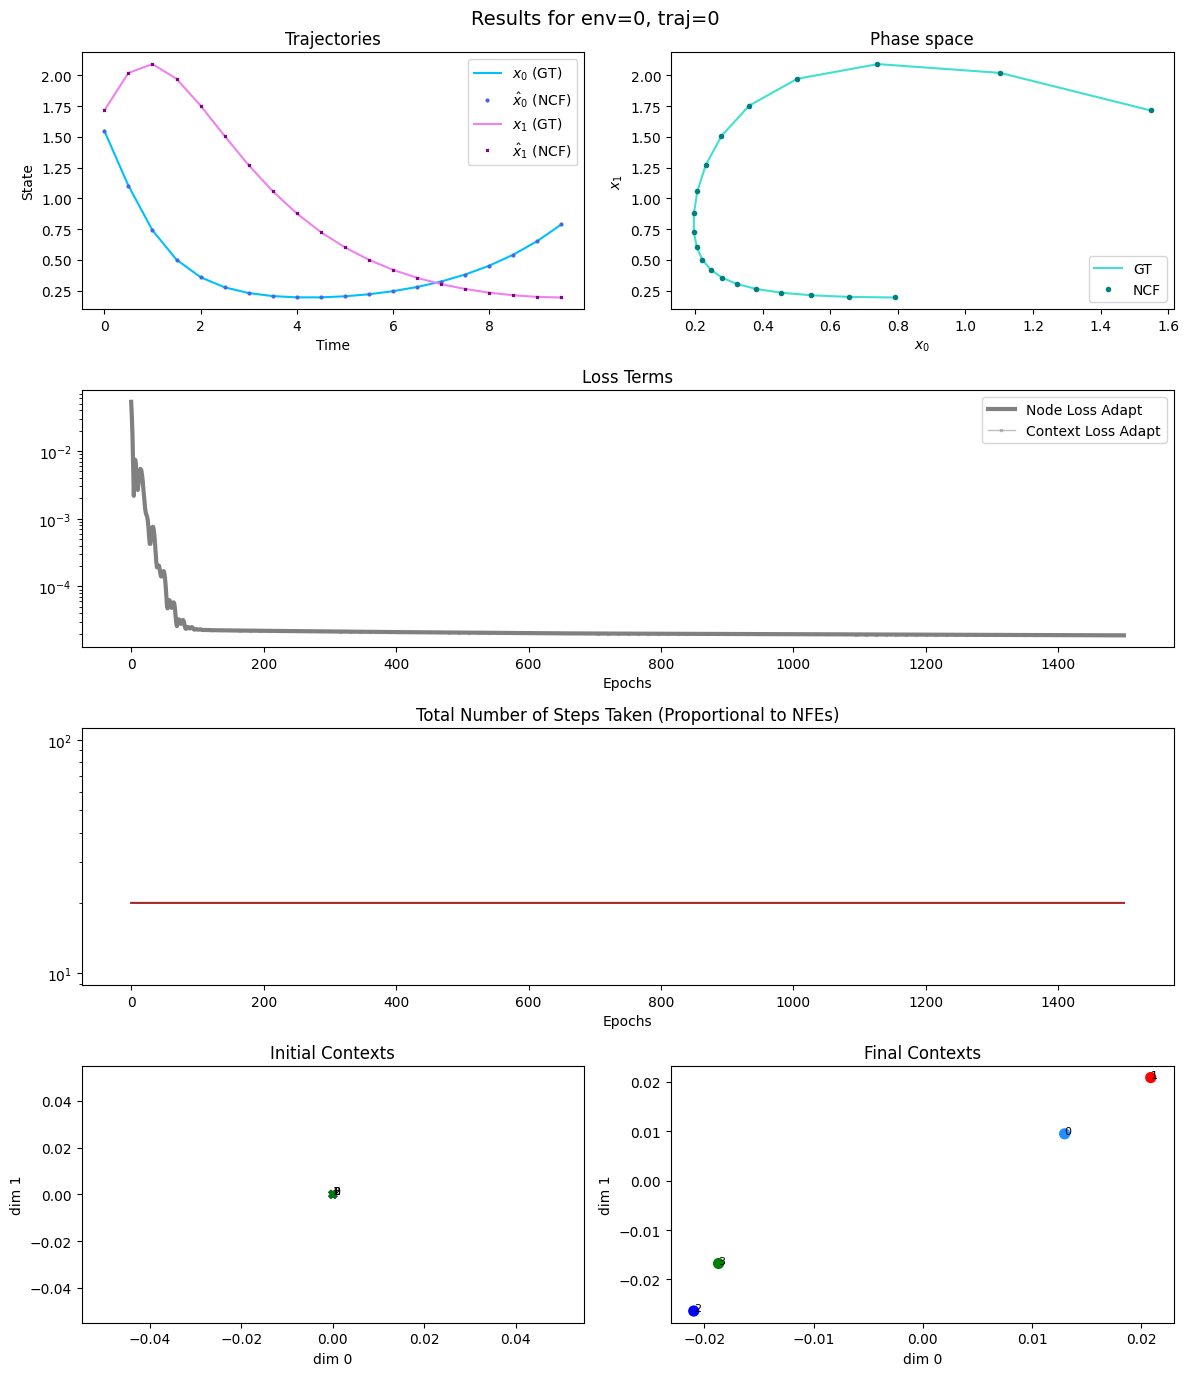
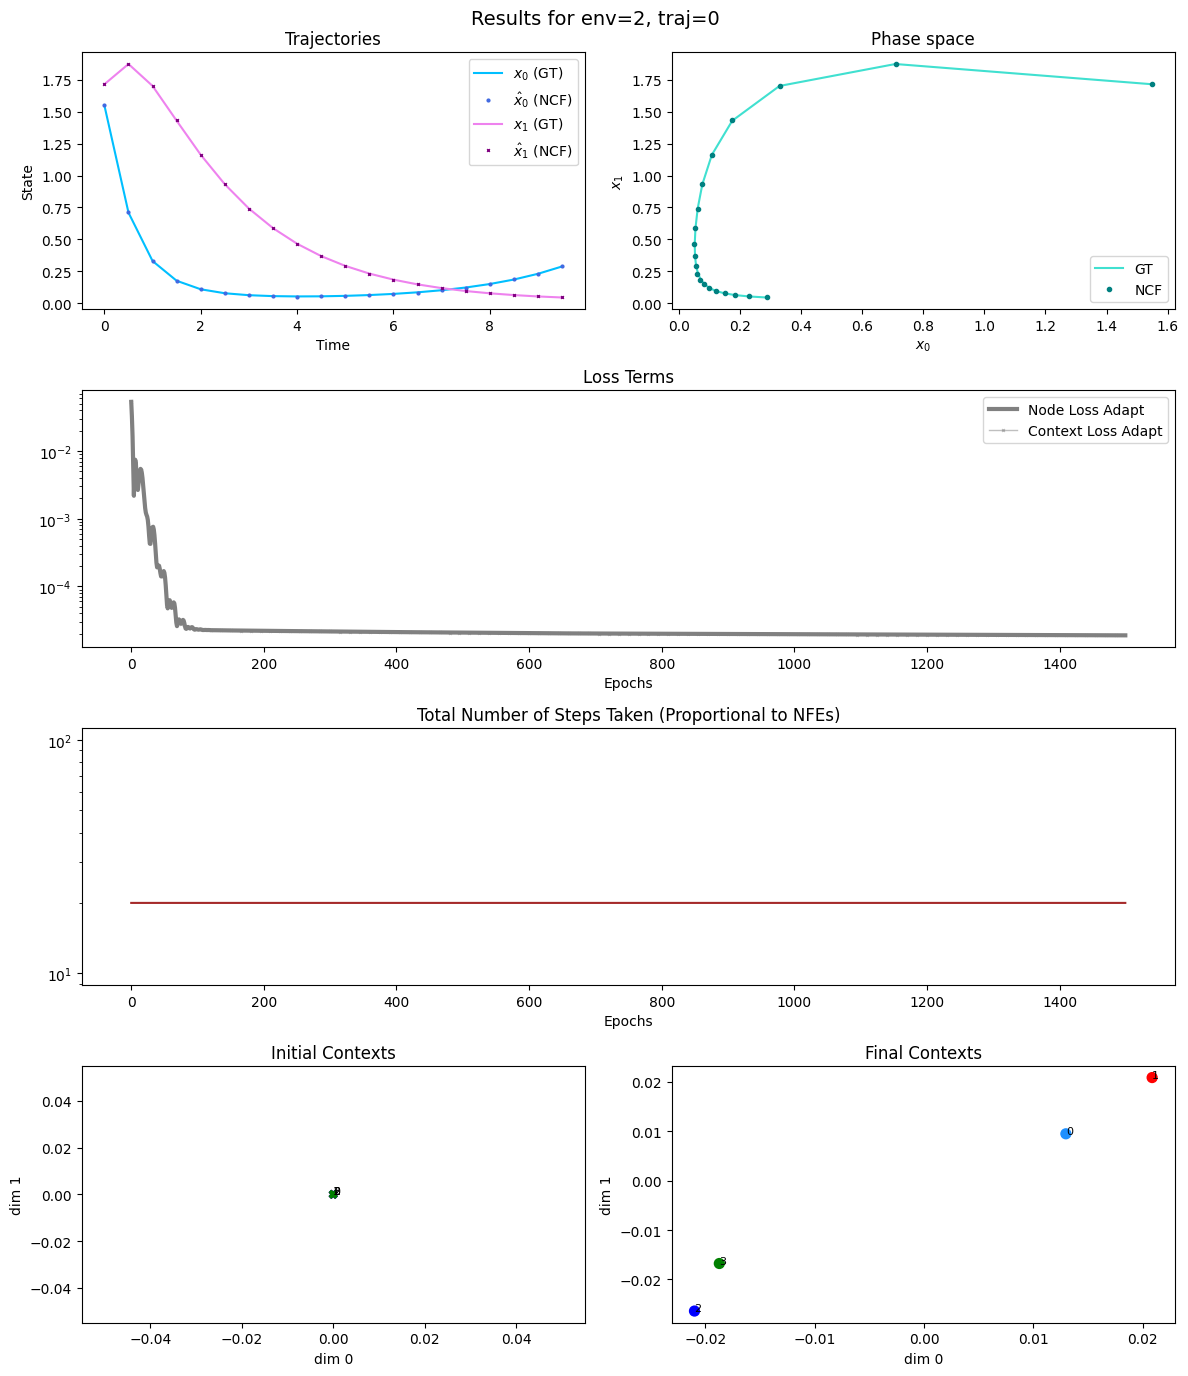
Scaled standard dev for better UQ visualisations

diff --git a/nodax/visualtester.py b/nodax/visualtester.py
@@ -344,7 +344,7 @@ class VisualTester:
 
 
 
-    def visualizeUQ(self, data_loader, e=None, traj=None, dims=(0,1), context_dims=(0,1), int_cutoff=1.0, save_path=False, key=None):
+    def visualizeUQ(self, data_loader, e=None, traj=None, dims=(0,1), std_scale=1e2, int_cutoff=1.0, save_path=False, verbose=True, key=None):
         """ Visualise the results of the neural ODE model with epistemic uncertainty quantification """
 
         # assert data_loader.nb_envs == self.trainer.dataloader.nb_envs, "The number of environments in the test dataloader must be the same as the number of environments in the trainer."
@@ -358,15 +358,16 @@ class VisualTester:
         X = data_loader.dataset[e, traj:traj+1, :test_length, :]
         t_test = t_eval[:test_length]
 
-        if data_loader.adaptation == False:
-            print("==  Begining in-domain visualisation with UQ... ==")
-        else:
-            print("==  Begining out-of-distribution visualisation with UQ ... ==")
-        print("    Environment id:", e)
-        print("    Trajectory id:", traj)
-        print("    Visualized dimensions:", dims)
-        print("    Final length of the training trajectories:", self.trainer.dataloader.int_cutoff)
-        print("    Length of the testing trajectories:", test_length)
+        if verbose == True:
+            if data_loader.adaptation == False:
+                print("==  Begining in-domain visualisation with UQ... ==")
+            else:
+                print("==  Begining out-of-distribution visualisation with UQ ... ==")
+            print("    Environment id:", e)
+            print("    Trajectory id:", traj)
+            print("    Visualized dimensions:", dims)
+            print("    Final length of the training trajectories:", self.trainer.dataloader.int_cutoff)
+            print("    Length of the testing trajectories:", test_length)
 
         contexts = self.trainer.learner.contexts.params
         if data_loader.adaptation == True:
@@ -383,41 +384,60 @@ class VisualTester:
         X_hat = X_hat.squeeze()
         X = X.squeeze()
 
-        fig, ax = plt.subplot_mosaic('AB;CD', figsize=(6*2, 3.5*2))
+        # fig, ax = plt.subplot_mosaic('AB;CD', figsize=(6*2, 3.5*2))
+        fig, ax = plt.subplot_mosaic('CD', figsize=(6*2, 3.5*1))
 
         mks = 2
         dim0, dim1 = dims
 
-        ax['A'].plot(t_test, X[:, 0], "o", c="royalblue", label=f"$x_{{{dim0}}}$ (GT)")
-        ax['A'].plot(t_test, X_hat[:, 0], c="deepskyblue", label=f"$\\hat{{x}}_{{{dim0}}}$ (NCF)", markersize=mks)
+        # ax['A'].plot(t_test, X[:, dim0], "o", c="royalblue", label=f"$x_{{{dim0}}}$ (GT)")
+        # ax['A'].plot(t_test, X_hat[e, :, dim0], c="deepskyblue", label=f"$\\hat{{x}}_{{{dim0}}}$ (NCF)", markersize=mks)
 
-        ax['A'].plot(t_test, X[:, 1], "x", c="purple", label=f"$x_{{{dim1}}}$ (GT)")
-        ax['A'].plot(t_test, X_hat[:, 1], c="violet", label=f"$\\hat{{x}}_{{{dim1}}}$ (NCF)", markersize=mks)
+        # ax['A'].plot(t_test, X[:, dim1], "x", c="purple", label=f"$x_{{{dim1}}}$ (GT)")
+        # ax['A'].plot(t_test, X_hat[e, :, dim1], c="violet", label=f"$\\hat{{x}}_{{{dim1}}}$ (NCF)", markersize=mks)
 
-        ax['A'].set_xlabel("Time")
-        ax['A'].set_ylabel("State")
-        ax['A'].set_title("Trajectories")
-        ax['A'].legend()
+        # ax['A'].set_xlabel("Time")
+        # ax['A'].set_ylabel("State")
+        # ax['A'].set_title("Trajectories")
+        # ax['A'].legend()
 
-        ax['B'].plot(X[:, 0], X[:, 1], ".", c="teal", label="GT")
-        ax['B'].plot(X_hat[:, 0], X_hat[:, 1], c="turquoise", label="NCF")
-        ax['B'].set_xlabel(f"$x_{{{dim0}}}$")
-        ax['B'].set_ylabel(f"$x_{{{dim1}}}$")
-        ax['B'].set_title("Phase space")
-        ax['B'].legend()
+        # ax['B'].plot(X[:, dim0], X[:, dim1], ".", c="teal", label="GT")
+        # ax['B'].plot(X_hat[e, :, dim0], X_hat[e, :, dim1], c="turquoise", label="NCF")
+        # ax['B'].set_xlabel(f"$x_{{{dim0}}}$")
+        # ax['B'].set_ylabel(f"$x_{{{dim1}}}$")
+        # ax['B'].set_title("Phase space")
+        # ax['B'].legend()
+
+        ## Plot in axis C and D. Same as above, but the mean and std across X_hat's first dimension
+        X_hat_mean = X_hat.mean(axis=0)
+        X_hat_std = std_scale*X_hat.std(axis=0)
+
+        ax['C'].plot(t_test, X[:, dim0], "o", c="royalblue", label=f"$x_{{{dim0}}}$ (GT)")
+        ax['C'].plot(t_test, X_hat_mean[:, dim0], c="deepskyblue", label=f"$\\hat{{x}}_{{{dim0}}}$ (NCF)", markersize=mks)
+        ax['C'].fill_between(t_test, X_hat_mean[:, dim0]-X_hat_std[:, dim0], X_hat_mean[:, dim0]+X_hat_std[:, dim0], color="deepskyblue", alpha=0.2)
+
+        ## Print all trajectories in X_hat for dim0 with alpha=0.2
+        # for e_ in range(X_hat.shape[0]):
+        #     ax['C'].plot(t_test, X_hat[e_, :, dim0], c="deepskyblue", alpha=0.2)
 
 
+        ax['C'].plot(t_test, X[:, dim1], "x", c="purple", label=f"$x_{{{dim1}}}$ (GT)")
+        ax['C'].plot(t_test, X_hat_mean[:, dim1], c="violet", label=f"$\\hat{{x}}_{{{dim1}}}$ (NCF)", markersize=mks)
+        ax['C'].fill_between(t_test, X_hat_mean[:, dim1]-X_hat_std[:, dim1], X_hat_mean[:, dim1]+X_hat_std[:, dim1], color="violet", alpha=0.2)
 
+        ax['C'].set_xlabel("Time")
+        ax['C'].set_ylabel("State")
+        ax['C'].set_title("Trajectories with UQ")
+        ax['C'].legend()
 
+        ax['D'].plot(X[:, dim0], X[:, dim1], ".", c="teal", label="GT")
+        ax['D'].plot(X_hat_mean[:, dim0], X_hat_mean[:, dim1], c="turquoise", label="NCF")
+        ax['D'].fill_between(X_hat_mean[:, dim0], X_hat_mean[:, dim1]-X_hat_std[:, dim1], X_hat_mean[:, dim1]+X_hat_std[:, dim1], color="turquoise", alpha=0.2)
 
-
-
-
-
-
-
-
-
+        ax['D'].set_xlabel(f"$x_{{{dim0}}}$")
+        ax['D'].set_ylabel(f"$x_{{{dim1}}}$")
+        ax['D'].set_title("Phase space with UQ")
+        ax['D'].legend()
 
         plt.suptitle(f"Results for env={e}, traj={traj}", fontsize=14)
 

diff --git a/examples/lotka-voltera/runs/Uncertainty/main_T2.py b/examples/lotka-voltera/runs/Uncertainty/main_T2.py
@@ -353,7 +353,8 @@ visualtester.visualize(test_dataloader, int_cutoff=1.0, save_path=savefigdir);
 #%%
 
 ## Visualise with Uncertainty
-visualtester.visualizeUQ(test_dataloader, int_cutoff=1.0, save_path=savefigdir);
+savefigdir_uq = run_folder+"results_in_domain_uq.png"
+visualtester.visualizeUQ(test_dataloader, std_scale=1e2, int_cutoff=1.0, save_path=savefigdir_uq);
 
 
 
@@ -405,6 +406,9 @@ if adapt_test:
     # contexts = np.append(contexts, trainer.learner.contexts.params)
 
     visualtester.visualize(adapt_dataloader, int_cutoff=1.0, save_path=adapt_folder+"results_ood.png");
+
+    ## Visualise with Uncertainty
+    visualtester.visualizeUQ(test_dataloader, std_scale=1e2, int_cutoff=1.0, verbose=False, save_path=adapt_folder+"results_ood_uq.png");
 
 
 
